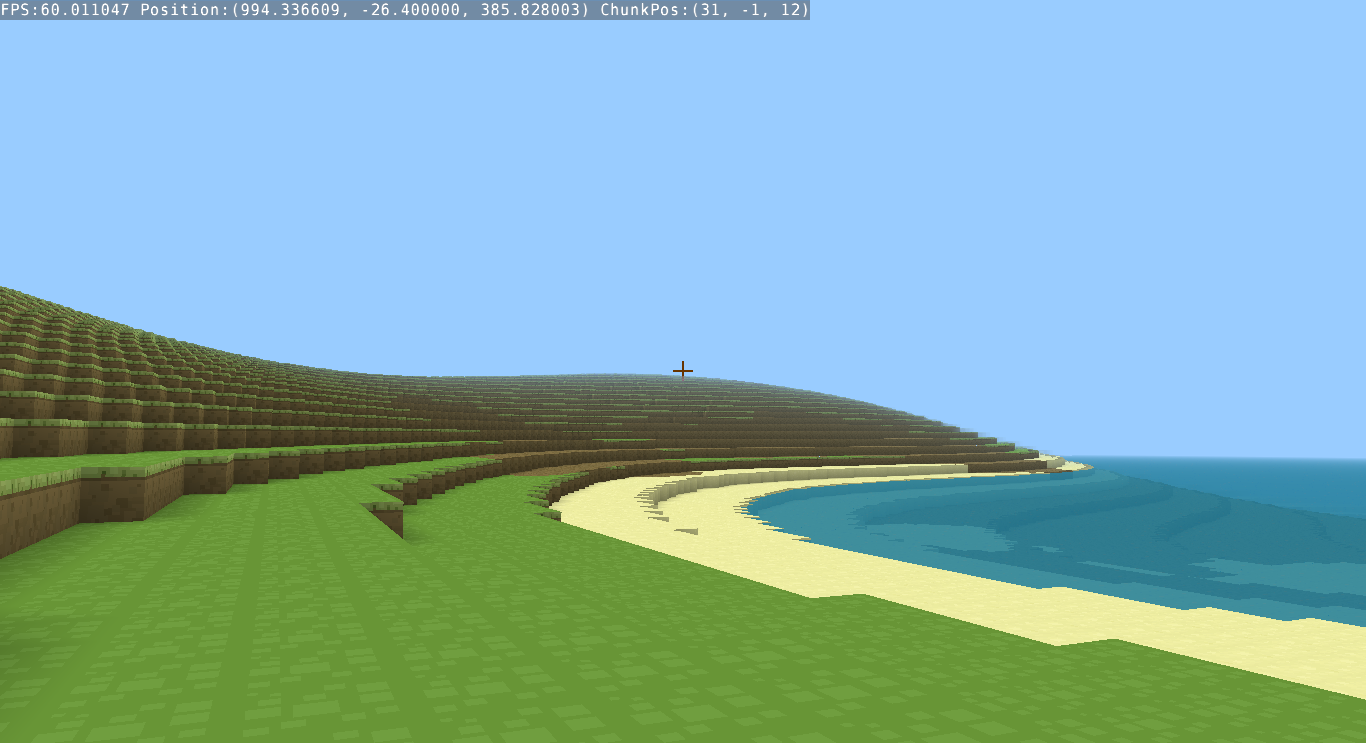
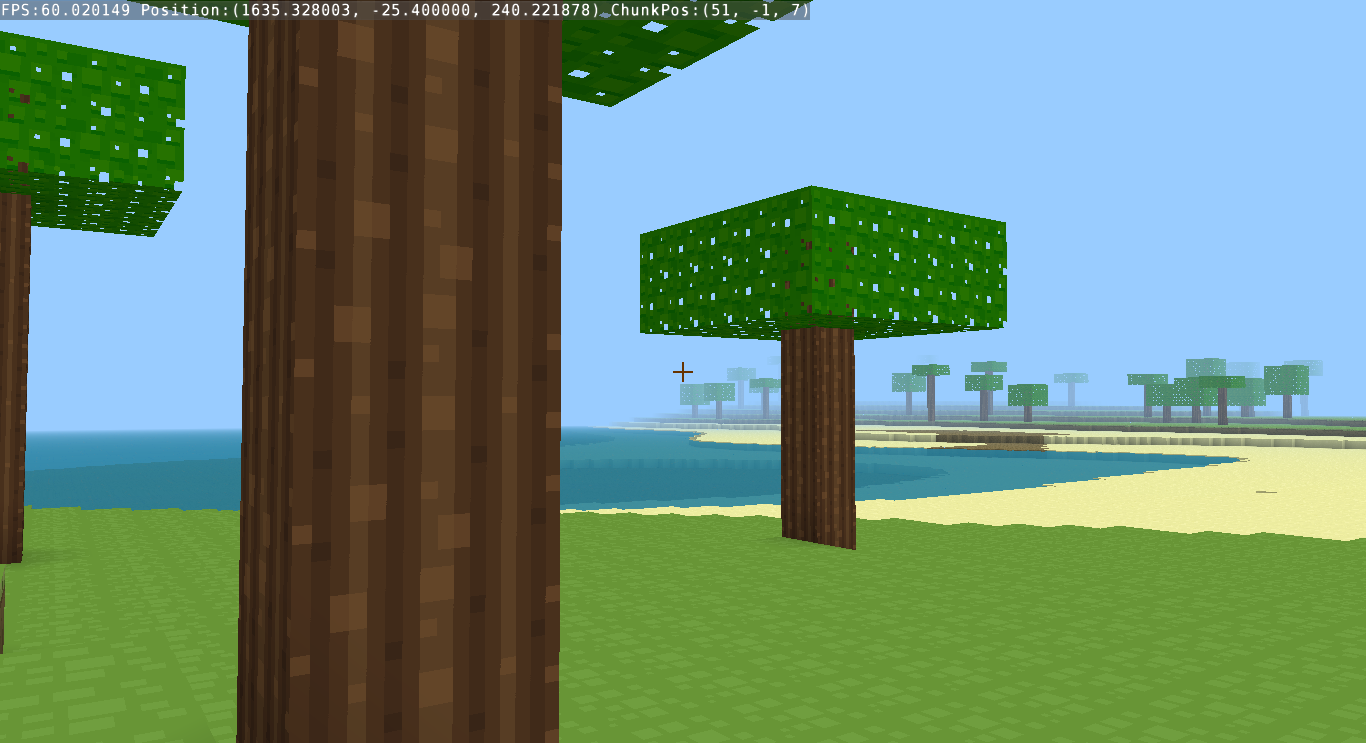
Add tree

diff --git a/src/World.cpp b/src/World.cpp
@@ -5,7 +5,8 @@
 
 ThreadPool threadPool(THREAD_NUM);
 
-glm::ivec3 lastPlayerChunkPos((int) pow(CHUNK_LOAD_DISTANCE * 2 + 1, 3) * 2);
+glm::ivec3 lastPlayerChunkPos(INT_MAX-1);
+
 bool World::minDistanceCompare(const glm::ivec3 &a, const glm::ivec3 &b)
 {
 	if(b.x == INT_MAX) return true;
@@ -23,49 +24,101 @@ void World::InitNoise()
 }
 void World::setTerrain(glm::ivec3 chunkPos, block (&blk)[(CHUNK_SIZE+2) * (CHUNK_SIZE+2) * (CHUNK_SIZE+2)])
 {
-	fastNoise->SetFrequency(0.0007f);
-	float* noiseSet = fastNoise->GetSimplexFractalSet(chunkPos.x * CHUNK_SIZE - 1, chunkPos.z * CHUNK_SIZE - 1, 0,
-													  CHUNK_SIZE + 2, CHUNK_SIZE + 2, 1);
-	fastNoise->SetFrequency(0.01f);
-	float* noiseSet3D = fastNoise->GetSimplexFractalSet(chunkPos.x * CHUNK_SIZE - 1, chunkPos.z * CHUNK_SIZE - 1, chunkPos.y * CHUNK_SIZE - 1,
-													  CHUNK_SIZE + 2, CHUNK_SIZE + 2, CHUNK_SIZE + 2);
-	int index=0;
+#define getBlock(x, y, z) (blk[Chunk::XYZ(x+1, y+1, z+1, CHUNK_SIZE + 2)])
+#define SCALE 32
 
 	const int chunkBase = chunkPos.y * CHUNK_SIZE;
-	const int seaLevel = -32;
+	const int seaLevel = -SCALE;
 
-	for(int i = -1; i <= CHUNK_SIZE; ++i)
-		for(int j = -1; j <= CHUNK_SIZE; ++j)
+	if(chunkBase > 1) //must be full of air
+	{
+		return;
+	}
+	if(chunkBase < -SCALE * 2 - 1) //must be full of stone
+	{
+		std::fill(std::begin(blk), std::end(blk), Blocks::Stone);
+		return;
+	}
+
+	fastNoise->SetFrequency(0.001f);
+	float* heightNoiseSet = fastNoise->GetSimplexFractalSet(chunkPos.x * CHUNK_SIZE - 2, chunkPos.z * CHUNK_SIZE - 2, 0,
+													  CHUNK_SIZE + 4, CHUNK_SIZE + 4, 1);
+	fastNoise->SetFrequency(0.01f);
+	float* dotsNoiseSet = fastNoise->GetSimplexFractalSet(chunkPos.x * CHUNK_SIZE - 2, chunkPos.z * CHUNK_SIZE - 2, 0,
+													  CHUNK_SIZE + 4, CHUNK_SIZE + 4, 1);
+	fastNoise->SetFrequency(1.0f);
+	float* treeNoiseSet = fastNoise->GetWhiteNoiseSet(chunkPos.x * CHUNK_SIZE - 2, chunkPos.z * CHUNK_SIZE - 2, 0,
+													   CHUNK_SIZE + 4, CHUNK_SIZE + 4, 1);
+	int index=0;
+
+	for(int i = -2; i <= CHUNK_SIZE + 1; ++i)
+		for(int j = -2; j <= CHUNK_SIZE + 1; ++j, ++index)
 		{
-			const int height = (int) std::round(noiseSet[index++] * 100) - 32;
-			for(int k = chunkBase - 1; k <= std::max(seaLevel, height) && k <= chunkBase + CHUNK_SIZE; ++k)
+			const bool treeExist = (int) ((treeNoiseSet[index] + 1.0f) * 128.0f) == 0;
+
+			const int treeHeight = (int) ((treeNoiseSet[index] + 1.0f) * 10000.0f) % 5 + 7;
+
+			const int height = (int) std::round(heightNoiseSet[index] * SCALE) + seaLevel;
+			if(i != -2 && i != CHUNK_SIZE + 1 && j != -2 && j != CHUNK_SIZE + 1)
 			{
-				int arrayIndex = Chunk::XYZ(i + 1, k-chunkBase + 1, j + 1, CHUNK_SIZE + 2);
-				if(k <= height)
+				for(int k = chunkBase - 1; k <= std::max(seaLevel, height) && k <= chunkBase + CHUNK_SIZE; ++k)
 				{
-					if(noiseSet3D[(index - 1) * (CHUNK_SIZE + 2) + k - chunkBase + 1] < -0.3f)
+					int arrayIndex = Chunk::XYZ(i + 1, k-chunkBase + 1, j + 1, CHUNK_SIZE + 2);
+					if(k <= height)
 					{
-						if(k >= seaLevel)
+						if(dotsNoiseSet[index] < -0.4f && k == height)
+						{
+							if(k >= seaLevel)
+								blk[arrayIndex] = Blocks::Dirt;
+							else
+								blk[arrayIndex] = Blocks::Sand;
+						}
+						else if(k == height && std::abs(k - seaLevel) <= 1)
+							blk[arrayIndex] = Blocks::Sand;
+						else if(k == height && k >= seaLevel)
+						{
+							if(treeExist)
+								blk[arrayIndex] = Blocks::Dirt;
+							else
+								blk[arrayIndex] = Blocks::Grass;
+						}
+						else if(k == height && k < seaLevel)
 							blk[arrayIndex] = Blocks::Dirt;
 						else
-							blk[arrayIndex] = Blocks::Sand;
+							blk[arrayIndex] = Blocks::Stone;
 					}
-					else if(k == height && std::abs(k - seaLevel) <= 1)
-						blk[arrayIndex] = Blocks::Sand;
-					else if(k == height && k >= seaLevel)
-						blk[arrayIndex] = Blocks::Grass;
-					else if(k == height && k < seaLevel)
-						blk[arrayIndex] = Blocks::Dirt;
 					else
-						blk[arrayIndex] = Blocks::Stone;
+						blk[arrayIndex] = Blocks::Water;
 				}
-				else
-					blk[arrayIndex] = Blocks::Water;
+				if(treeExist && height - 1 > seaLevel && height + treeHeight > chunkBase)
+					for(int k=height + 1; k <= height + treeHeight && k <= chunkBase + CHUNK_SIZE; ++k)
+					{
+						if(k - chunkBase >= -1)
+							getBlock(i, k - chunkBase, j) = Blocks::Wood;
+					}
+			}
+			if(treeExist && height - 1 > seaLevel && height + treeHeight > chunkBase) {
+
+				const int leavesHeight = (int) ((treeNoiseSet[index] + 1.0f) * 10000.0f) % 4 + 2;
+
+				for (int k = height + treeHeight - leavesHeight + 1;
+					 k <= height + treeHeight && k <= chunkBase + CHUNK_SIZE; ++k)
+					for (int x = i - 2; x <= i + 2 && x <= CHUNK_SIZE; ++x)
+						for (int y = j - 2; y <= j + 2 && y <= CHUNK_SIZE; ++y) {
+							if (x == i && y == j)
+								continue;
+
+							if (x >= -1 && y >= -1 && k - chunkBase >= -1
+								&& getBlock(x, k - chunkBase, y) == Blocks::Air) {
+								getBlock(x, k - chunkBase, y) = Blocks::Leaves;
+							}
+						}
 			}
 		}
 
-	FastNoiseSIMD::FreeNoiseSet(noiseSet);
-	FastNoiseSIMD::FreeNoiseSet(noiseSet3D);
+	FastNoiseSIMD::FreeNoiseSet(heightNoiseSet);
+	FastNoiseSIMD::FreeNoiseSet(dotsNoiseSet);
+	FastNoiseSIMD::FreeNoiseSet(treeNoiseSet);
 }
 void World::chunkLoadingFunc()
 {
@@ -86,7 +139,7 @@ void World::chunkLoadingFunc()
 	block blk[(CHUNK_SIZE+2) * (CHUNK_SIZE+2) * (CHUNK_SIZE+2)];
 	std::uninitialized_fill(std::begin(blk), std::end(blk), Blocks::Air);
 
-	setTerrain(pos, blk);
+	setTerrain(pos, std::ref(blk));
 
 	bgMtx.lock();
 	ChunkPtr chk = Voxels.GetChunk(pos);
@@ -126,7 +179,7 @@ void World::chunkUpdateFunc()
 	chunkUpdateSet.erase(pos);
 	bgMtx.unlock();
 
-	auto MeshData = Chunk::GetMesh(pos, blk);
+	auto MeshData = Chunk::GetMesh(pos, std::cref(blk));
 
 	bgMtx.lock();
 	chk = Voxels.GetChunk(pos);
@@ -168,15 +221,14 @@ void World::UpdateChunkLists()
 		ChunkPtr &chk=i->second;
 		glm::ivec3 pos=i->first;
 
-		if(!chk)//delete if the chunk is null
+		if(!chk)
+			// delete if the chunk is null
 		{
 			i = Voxels.Chunks.erase(i);
 			continue;
 		}
 
 		if(glm::distance((glm::vec3)Game::player.ChunkPos, (glm::vec3)pos) > (float)CHUNK_LOAD_DISTANCE)
-		//if(pos.x < minLoadRange.x || pos.y < minLoadRange.y || pos.z < minLoadRange.z
-		//   || pos.x > maxLoadRange.x || pos.y > maxLoadRange.y || pos.z > maxLoadRange.z)
 		{// chunk is out of loading range
 			++i;
 			//completely erase the chunk
@@ -189,15 +241,17 @@ void World::UpdateChunkLists()
 		}
 
 		if(!chunkLoadedSet.count(pos))
+			// chunk is not loaded
 		{
 			++i;
 			continue;
 		}
-
-		if(!chk->UpdatedMesh)
+		else if(!chk->UpdatedMesh)
+			// chunk is loaded but hasn't meshed
 			chunkUpdateSet.insert(pos);
 		else if(!chk->SolidMeshData.empty() || !chk->TransMeshData.empty())
 		{
+			// chunk is meshed, then apply the mesh and clear the mesh array
 			Renderer::ApplyChunkMesh(chk);
 
 			chk->SolidMeshData.clear();
@@ -207,7 +261,8 @@ void World::UpdateChunkLists()
 			chk->TransMeshData.shrink_to_fit();
 		}
 
-		if(chk->SolidMeshObject->Empty() && chk->TransMeshObject->Empty())//don't Render if there weren't any thing
+		if(chk->SolidMeshObject->Empty() && chk->TransMeshObject->Empty())
+			// don't Render if there weren't any thing in the chunk mesh
 		{
 			++i;
 			continue;
@@ -215,8 +270,8 @@ void World::UpdateChunkLists()
 
 		glm::vec3 center=(glm::vec3) pos*(float)CHUNK_SIZE+glm::vec3(CHUNK_SIZE/2);
 
-		//Cull far away Chunks
 		if(glm::distance(Game::camera.Position, center) > VIEW_DISTANCE+CHUNK_SIZE)
+			//cull far away Chunks
 		{
 			++i;
 			continue;

diff --git a/src/Chunk.cpp b/src/Chunk.cpp
@@ -25,7 +25,7 @@ Chunk::~Chunk()
 }
 inline bool Chunk::IsValidPos(int x, int y, int z)
 {
-	return x>=0 && x<CHUNK_SIZE && y>=0 && y<CHUNK_SIZE && z>=0 && z<CHUNK_SIZE;
+	return x>=-1 && x<=CHUNK_SIZE && y>=-1 && y<=CHUNK_SIZE && z>=-1 && z<=CHUNK_SIZE;
 }
 inline bool Chunk::IsValidPos(const glm::ivec3 &pos)
 {
@@ -179,11 +179,12 @@ void Chunk::UpdateLighting()
 }
 
 std::pair<std::vector<vert_block>, std::vector<vert_block>> Chunk::GetMesh(glm::ivec3 chunkPos,
-																		   block (&blk)[(CHUNK_SIZE+2) * (CHUNK_SIZE+2) * (CHUNK_SIZE+2)])
+																		   const block (&blk)[(CHUNK_SIZE+2) * (CHUNK_SIZE+2) * (CHUNK_SIZE+2)])
 {
 	std::vector<vert_block> TransMeshData, SolidMeshData;
-#define getBlock(x, y, z) (blk[Chunk::XYZ(x+1, y+1, z+1, CHUNK_SIZE + 2)])
-#define getBlockIVec3(pos) (blk[Chunk::XYZ((pos).x+1, (pos).y+1, (pos).z+1, CHUNK_SIZE + 2)])
+#define getBlock(x, y, z) (((x) < -1 || (x) > CHUNK_SIZE || (y) < -1 || (y) > CHUNK_SIZE || (z) < -1 || (z) > CHUNK_SIZE)\
+	? (Blocks::Air) : (blk[Chunk::XYZ((x+1), (y+1), (z+1), CHUNK_SIZE + 2)]))
+#define getBlockIVec3(pos) (getBlock((pos).x, (pos).y, (pos).z))
 
 	static const int lookup3[6][4][3]=
 			{
@@ -475,4 +476,18 @@ std::pair<std::vector<vert_block>, std::vector<vert_block>> Chunk::GetMesh(glm::
 		}
 	}
 	return {SolidMeshData, TransMeshData};
+}
+
+block Chunk::GetBlockFromArray(block (&blk)[(CHUNK_SIZE+2) * (CHUNK_SIZE+2) * (CHUNK_SIZE+2)], int x, int y, int z)
+{
+	if(x < -1 || x > CHUNK_SIZE || y < -1 || y > CHUNK_SIZE || z < -1 || z > CHUNK_SIZE)
+		return Blocks::Air;
+ 	return blk[Chunk::XYZ(x+1, y+1, z+1, CHUNK_SIZE + 2)];
+}
+
+void Chunk::SetBlockToArray(block (&blk)[(CHUNK_SIZE+2) * (CHUNK_SIZE+2) * (CHUNK_SIZE+2)], int x, int y, int z, block b)
+{
+	if(x < -1 || x > CHUNK_SIZE || y < -1 || y > CHUNK_SIZE || z < -1 || z > CHUNK_SIZE)
+		return;
+	blk[Chunk::XYZ(x+1, y+1, z+1, CHUNK_SIZE + 2)] = b;
 }

diff --git a/src/Chunk.hpp b/src/Chunk.hpp
@@ -42,10 +42,13 @@ public:
 	light_t GetLight(int x, int y, int z);
 
 	void UpdateLighting();
+
 	static std::pair<std::vector<vert_block>, std::vector<vert_block>> GetMesh(
 			glm::ivec3 chunkPos,
-			block (&blk)[(CHUNK_SIZE+2) * (CHUNK_SIZE+2) * (CHUNK_SIZE+2)]
+			const block (&blk)[(CHUNK_SIZE+2) * (CHUNK_SIZE+2) * (CHUNK_SIZE+2)]
 	);
+	static block GetBlockFromArray(block (&blk)[(CHUNK_SIZE+2) * (CHUNK_SIZE+2) * (CHUNK_SIZE+2)], int x, int y, int z);
+	static void SetBlockToArray(block (&blk)[(CHUNK_SIZE+2) * (CHUNK_SIZE+2) * (CHUNK_SIZE+2)], int x, int y, int z, block b);
 
 	bool UpdatedMesh=false;
 	bool UpdatedLight=false;

diff --git a/dep/MyGL/Texture.cpp b/dep/MyGL/Texture.cpp
@@ -1,5 +1,6 @@
 #include "Texture.hpp"
-#include <SOIL/SOIL.h>
+#include <iostream>
+#include <SOIL.h>
 namespace MyGL
 {
 	void Texture::Load2d(const std::string &file)
@@ -12,7 +13,6 @@ namespace MyGL
 
 		int width, height;
 		unsigned char* image = SOIL_load_image(file.c_str(), &width, &height, 0, SOIL_LOAD_RGBA);
-
 
 		glTexImage2D(GL_TEXTURE_2D, 0, GL_RGBA, width, height, 0,
 				GL_RGBA, GL_UNSIGNED_BYTE, image);

diff --git a/src/Settings.hpp b/src/Settings.hpp
@@ -3,10 +3,10 @@
 #define MOVE_DIST 1.0f
 #define ROTATE_DIST 0.4f
 
-#define THREAD_NUM 7
+#define THREAD_NUM 3
 #define CHUNK_SIZE 32
-#define VIEW_DISTANCE 222 //blocks
 #define CHUNK_LOAD_DISTANCE 8 //chunks
+#define VIEW_DISTANCE ((CHUNK_LOAD_DISTANCE - 1) * CHUNK_SIZE) //blocks
 #define GRAVITY 3.0f //gravity
 #define JUMP_STEP 0.85f
 #define PHYSICS true

diff --git a/src/World.hpp b/src/World.hpp
@@ -16,10 +16,9 @@ private:
 	void chunkUpdateFunc();
 	void chunkLoadingFunc();
 	void setTerrain(glm::ivec3 chunkPos, block (&blk)[(CHUNK_SIZE+2) * (CHUNK_SIZE+2) * (CHUNK_SIZE+2)]);
+
 	std::unordered_set<glm::ivec3> chunkLoadedSet;
-
 	std::unordered_set<glm::ivec3> chunkLoadingSet;
-
 	std::unordered_set<glm::ivec3> chunkUpdateSet;
 
 	std::mutex bgMtx;

diff --git a/src/Util.cpp b/src/Util.cpp
@@ -30,6 +30,15 @@ glm::ivec3 Funcs::GetFaceDirect(short face)
 	return fdirects[face];
 }
 
+std::string Funcs::GetApplicationPath()
+{
+#include <limits.h>
+#include <stdlib.h>
+
+	char *full_path = realpath(".", NULL);
+	free(full_path);
+}
+
 bool Ivec3Compare::operator()(const glm::ivec3 &lhs, const glm::ivec3 &rhs) const
 {
 	return lhs.x < rhs.x ||

diff --git a/src/Util.hpp b/src/Util.hpp
@@ -86,6 +86,7 @@ namespace Funcs
 	{
 		return "(" + std::to_string(vec.x) + ", " + std::to_string(vec.y) + ", " + std::to_string(vec.z) + ")";
 	}
+	extern std::string GetApplicationPath();
 };
 
 extern glm::ivec3 fdirects[];

diff --git a/src/Player.hpp b/src/Player.hpp
@@ -14,6 +14,7 @@ private:
 public:
 	glm::vec3 Position=glm::vec3(0);
 	glm::ivec3 ChunkPos=glm::ivec3(INT_MAX);
+	void StartTimer();
 	bool MoveForward(float dist, int degree);
 	bool MoveUp(float dist);
 	void Jump();

diff --git a/src/Game.cpp b/src/Game.cpp
@@ -81,6 +81,7 @@ namespace Game
 	{
 		int last=0;
 
+		player.StartTimer();
 		while(!glfwWindowShouldClose(Window))
 		{
 			frameRateManager.UpdateFrameRateInfo();

diff --git a/src/Player.cpp b/src/Player.cpp
@@ -207,3 +207,8 @@ void Player::Update()
 	ChunkPos = i3;
 	Game::camera.Position = Position;
 }
+
+void Player::StartTimer()
+{
+	lastGravityTime = glfwGetTime();
+}

diff --git a/src/Blocks.cpp b/src/Blocks.cpp
@@ -30,7 +30,7 @@ bool block_transparents[BLOCK_NUM]=
 				false,
 				true,
 				false,
-				false,
+				true,
 				false
 		};
 
